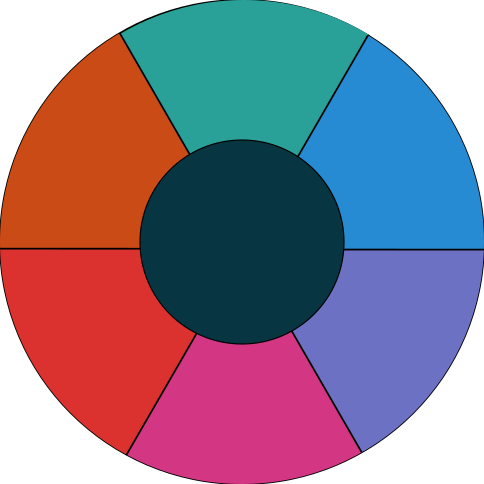
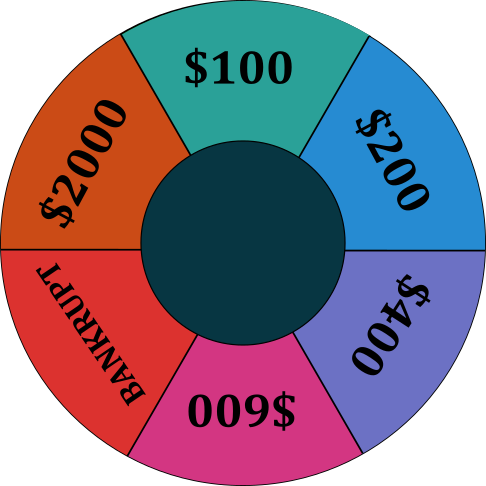
Added ticker, #'s on images, updated style a bit

diff --git a/src/components/WheelSpinner.tsx b/src/components/WheelSpinner.tsx
@@ -12,36 +12,43 @@ export function WheelSpinner({ userId, userCoins, updateCoins }: WheelSpinnerPro
     const [rotation, setRotation] = useState(0);
     const [coins, setCoins] = useState(userCoins);
 
-    function getCurrCoinReward() {
-      const normalizedRot = rotation % 360
+    const spinDelay = 4000
+
+    function getCurrCoinReward(rotation: number) {
+      const normalizedRot = (rotation + 30) % 360
+      console.log(rotation)
+      console.log(normalizedRot)
       if(normalizedRot < 60)
-        return -1
-      else if(normalizedRot < 120)
-        return 1000
-      else if(normalizedRot < 180)
-        return 200
-      else if(normalizedRot < 240)
         return 100
+      else if(normalizedRot < 120)
+        return 2000
+      else if(normalizedRot < 180)
+        return -1
+      else if(normalizedRot < 240)
+        return 600
       else if(normalizedRot < 300)
         return 400
       else
-        return 1000
+        return 200
     }
 
-
-    function spin() {
+    async function spin() {
         console.log(rotation)
-        setRotation(rotation + 720 + 1080 * Math.random())
 
-        let reward = getCurrCoinReward()
+        let newRotation = rotation + 720 + 1080 * Math.random()
+        setRotation(newRotation)
+
+        let reward = getCurrCoinReward(newRotation)
         let newCoins = coins
         if(reward == -1)
           newCoins = 0
         else
           newCoins = coins + reward
 
-        setCoins(newCoins)
-        updateCoins(userId, newCoins)
+        setTimeout(function() {
+          setCoins(newCoins)
+          updateCoins(userId, newCoins)
+        }, spinDelay);
     }
 
     
@@ -53,18 +60,27 @@ export function WheelSpinner({ userId, userCoins, updateCoins }: WheelSpinnerPro
         transform,
         transition: 'transform 4000ms ease', // smooth transition
       }
+      rotate_style['transition'] = 'transform ' + spinDelay + 'ms ease'
       console.log(rotate_style)
 
     return (
     <>
-        <img style={rotate_style} src="./spinning_wheel.png" />
-        <button onClick={spin}>
-            Spin
+      <center>
+        <div className='spinner-parent'>
+          <img style={rotate_style} src="./spinning_wheel.png" />
+          <img className='spinner-arrow-img' src="./arrow.png" />
+        </div>
+        
+        <br/>
+        <button className="border border-slate-300 text-slate-200 bg-green-700 px-10 py-2
+        hover:bg-green-600 focus-within:bg-green-600 rounded flex text-xl" onClick={spin}>
+            Spin!
         </button>
         <br/>
-        <label>
-          {coins}
+        <label className="text-xl">
+          Coins: ${coins}
         </label>
+      </center>
     </>
   );
 }

diff --git a/src/app/globals.css b/src/app/globals.css
@@ -1,3 +1,14 @@
 @tailwind base;
 @tailwind components;
 @tailwind utilities;
+
+.spinner-parent {
+    position: relative;
+}
+
+.spinner-arrow-img {
+    position: absolute;
+    top: -20px;
+    left: 50%;
+    transform: translate(-50%, 0)
+}
